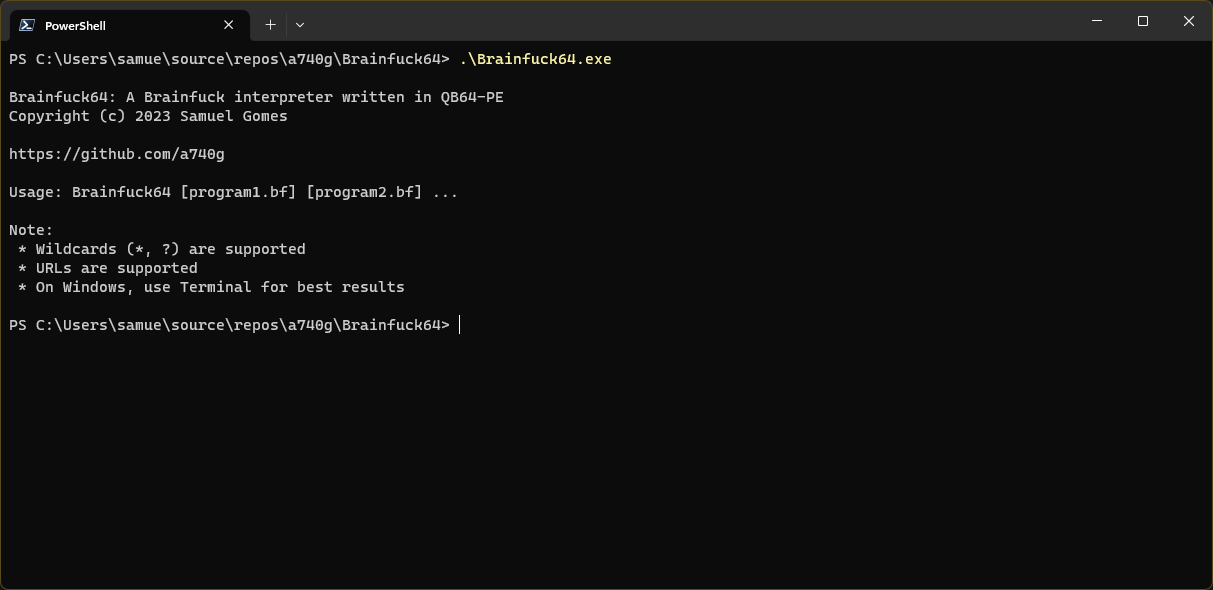
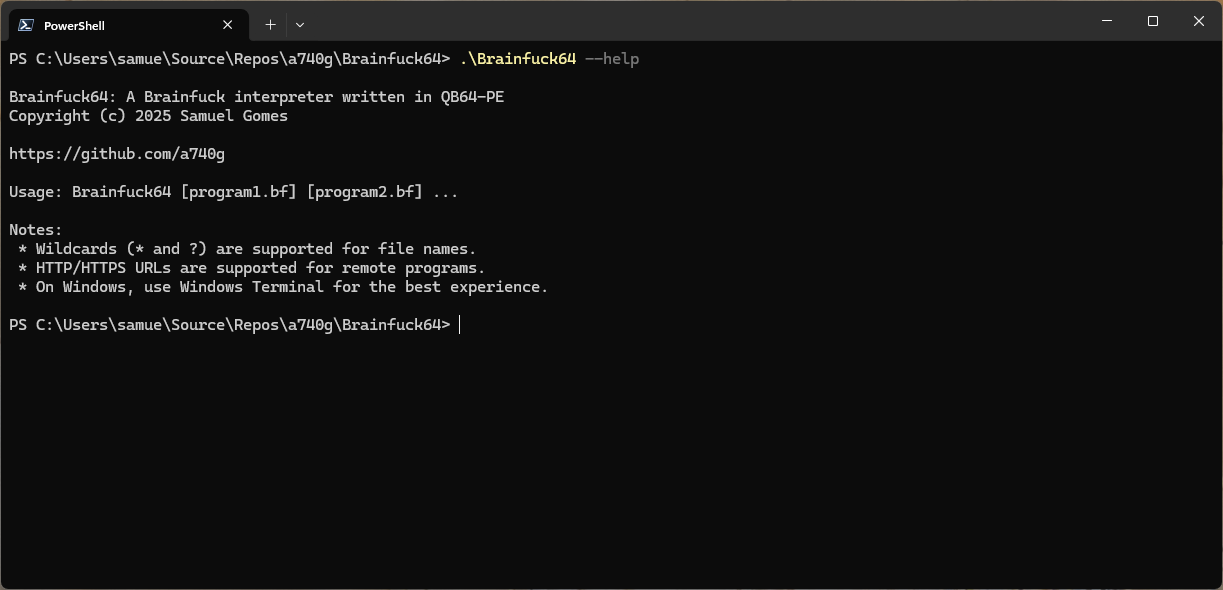
Improve error handler and update README.md

diff --git a/README.md b/README.md
@@ -1,20 +1,58 @@
-# BRAINFUCK64
+# Brainfuck64
 
-This is a [Brainfuck](http://en.wikipedia.org/wiki/Brainfuck) interpreter written in QB64-PE.
+Brainfuck64 is a [Brainfuck](http://en.wikipedia.org/wiki/Brainfuck) interpreter written in [QB64-PE](https://www.qb64phoenix.com/).
 
 ![Screenshot1](screenshots/screenshot1.png)
 ![Screenshot2](screenshots/screenshot2.png)
 ![Screenshot3](screenshots/screenshot3.png)
 
-## USAGE
+## Usage
 
-* Clone the repository to a directory of your choice
-* Open Terminal and change to the directory using an appropriate OS command
-* Run `git submodule update --init --recursive` to initialize, fetch and checkout git submodules
-* Open *Brainfuck64.bas* in the QB64-PE IDE and press `F5` to compile and run
-* Pass the Brainfuck program to execute as a command line parameter
+You can run a Brainfuck program by passing its path or URL as a command-line argument:
 
-## BIBLIOGRAPHY
+```bash
+./Brainfuck64 program.bf
+```
+
+If run without arguments, a file selection dialog will appear.
+
+## Building
+
+### Requirements
+
+* The [latest version](https://github.com/QB64-Phoenix-Edition/QB64pe/releases/latest) of the [QB64-PE](https://www.qb64phoenix.com/) compiler.
+
+### Build Instructions
+
+1. Clone the repository with submodules:
+
+    ```bash
+    git clone --recursive https://github.com/a740g/Brainfuck64.git
+    cd Brainfuck64
+    ```
+
+2. Build using the provided `Makefile`:
+
+    ```bash
+    make
+    ```
+
+    *On Windows, you may need to use `mingw32-make`.*
+
+## Testing
+
+A test suite is included to verify the interpreter's correctness.
+
+```bash
+make test
+```
+
+## References
 
 * [Esolang &ndash; Brainfuck](http://esolangs.org/wiki/brainfuck)
 * [Wikipedia &ndash; Brainfuck](http://en.wikipedia.org/wiki/Brainfuck)
+* [BFBASIC &ndash; BASIC to Brainfuck Compiler](https://esolangs.org/wiki/BFBASIC)
+
+## License
+
+This project is licensed under the MIT License - see the [LICENSE.txt](LICENSE.txt) file for details.
